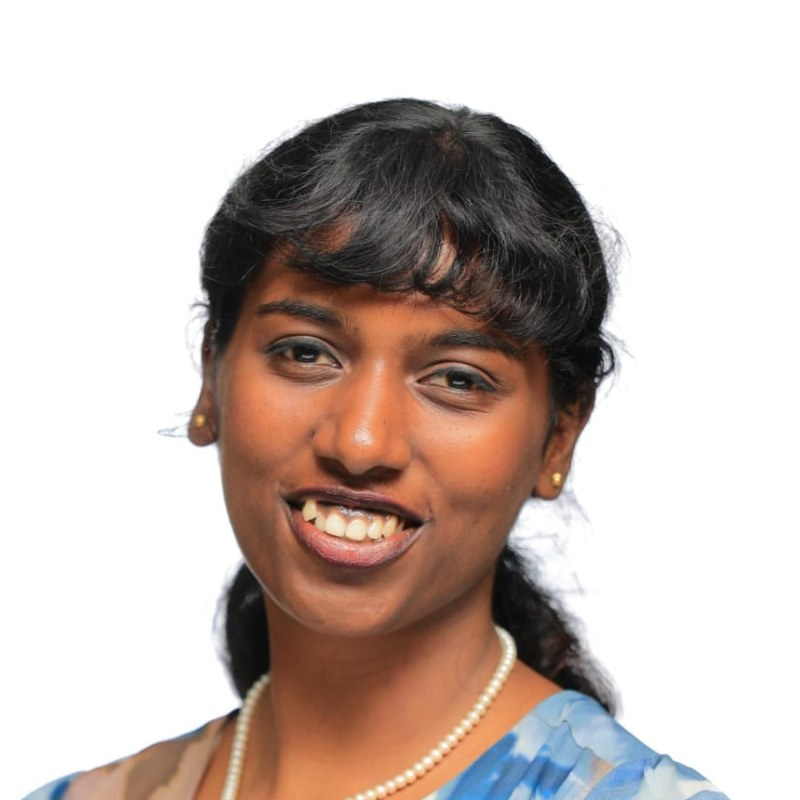
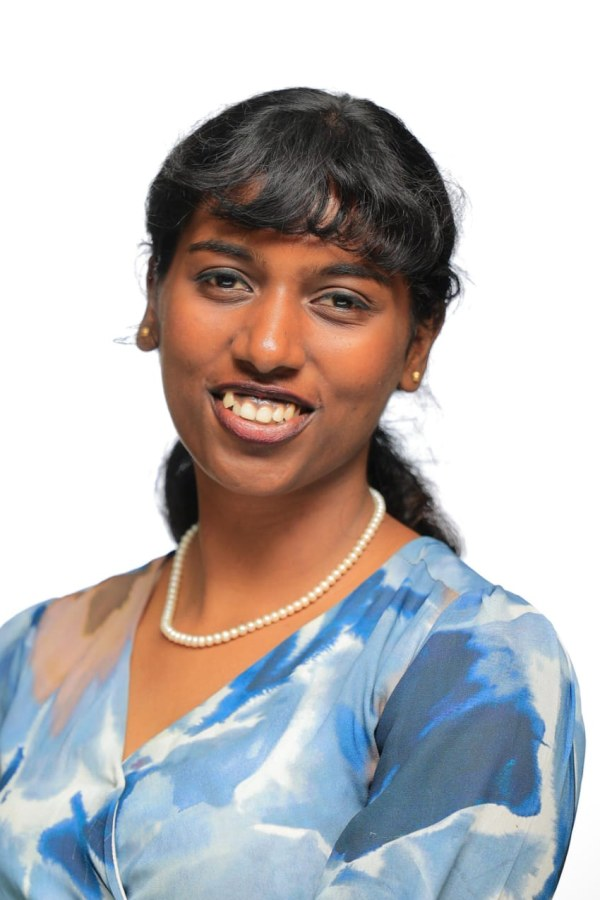
Show hero portrait as a rounded rectangle instead of a circle
Re-crops the photo to a 2:3 portrait framing head and shoulders, so the
image fills the space the circle was leaving blank.

diff --git a/styles.css b/styles.css
@@ -131,12 +131,12 @@ main { max-width: var(--maxw); margin: 0 auto; padding: 0 24px; }
 
 .hero-photo { flex: none; }
 .hero-photo img {
-  width: 190px; height: 190px;
-  border-radius: 50%;
+  width: 220px; height: 330px;
+  border-radius: 16px;
   object-fit: cover; object-position: 50% 50%;
-  background: var(--surface-alt);
+  background: #fff;
   border: 1px solid var(--border);
-  box-shadow: 0 0 0 7px var(--accent-soft);
+  box-shadow: 0 0 0 6px var(--accent-soft);
 }
 
 .eyebrow {
@@ -281,7 +281,7 @@ main { max-width: var(--maxw); margin: 0 auto; padding: 0 24px; }
   .footer { padding: 28px 20px 40px; }
 
   .hero { flex-direction: column; align-items: flex-start; gap: 26px; padding: 44px 0 48px; }
-  .hero-photo img { width: 132px; height: 132px; box-shadow: 0 0 0 5px var(--accent-soft); }
+  .hero-photo img { width: 156px; height: 234px; box-shadow: 0 0 0 5px var(--accent-soft); }
   .hero-blurb, .contact-lead { max-width: none; }
 
   .section { padding: 48px 0; }

diff --git a/index.html b/index.html
@@ -54,7 +54,7 @@
 
   <section class="hero" id="top">
     <div class="hero-photo">
-      <img src="assets/kanagha.jpg" alt="Portrait of Kanagha Sivakumar" width="320" height="320" fetchpriority="high">
+      <img src="assets/kanagha.jpg" alt="Portrait of Kanagha Sivakumar" width="600" height="900" fetchpriority="high">
     </div>
     <div class="hero-text">
       <p class="eyebrow">AI / ML engineer &middot; Speech &amp; vision research</p>
